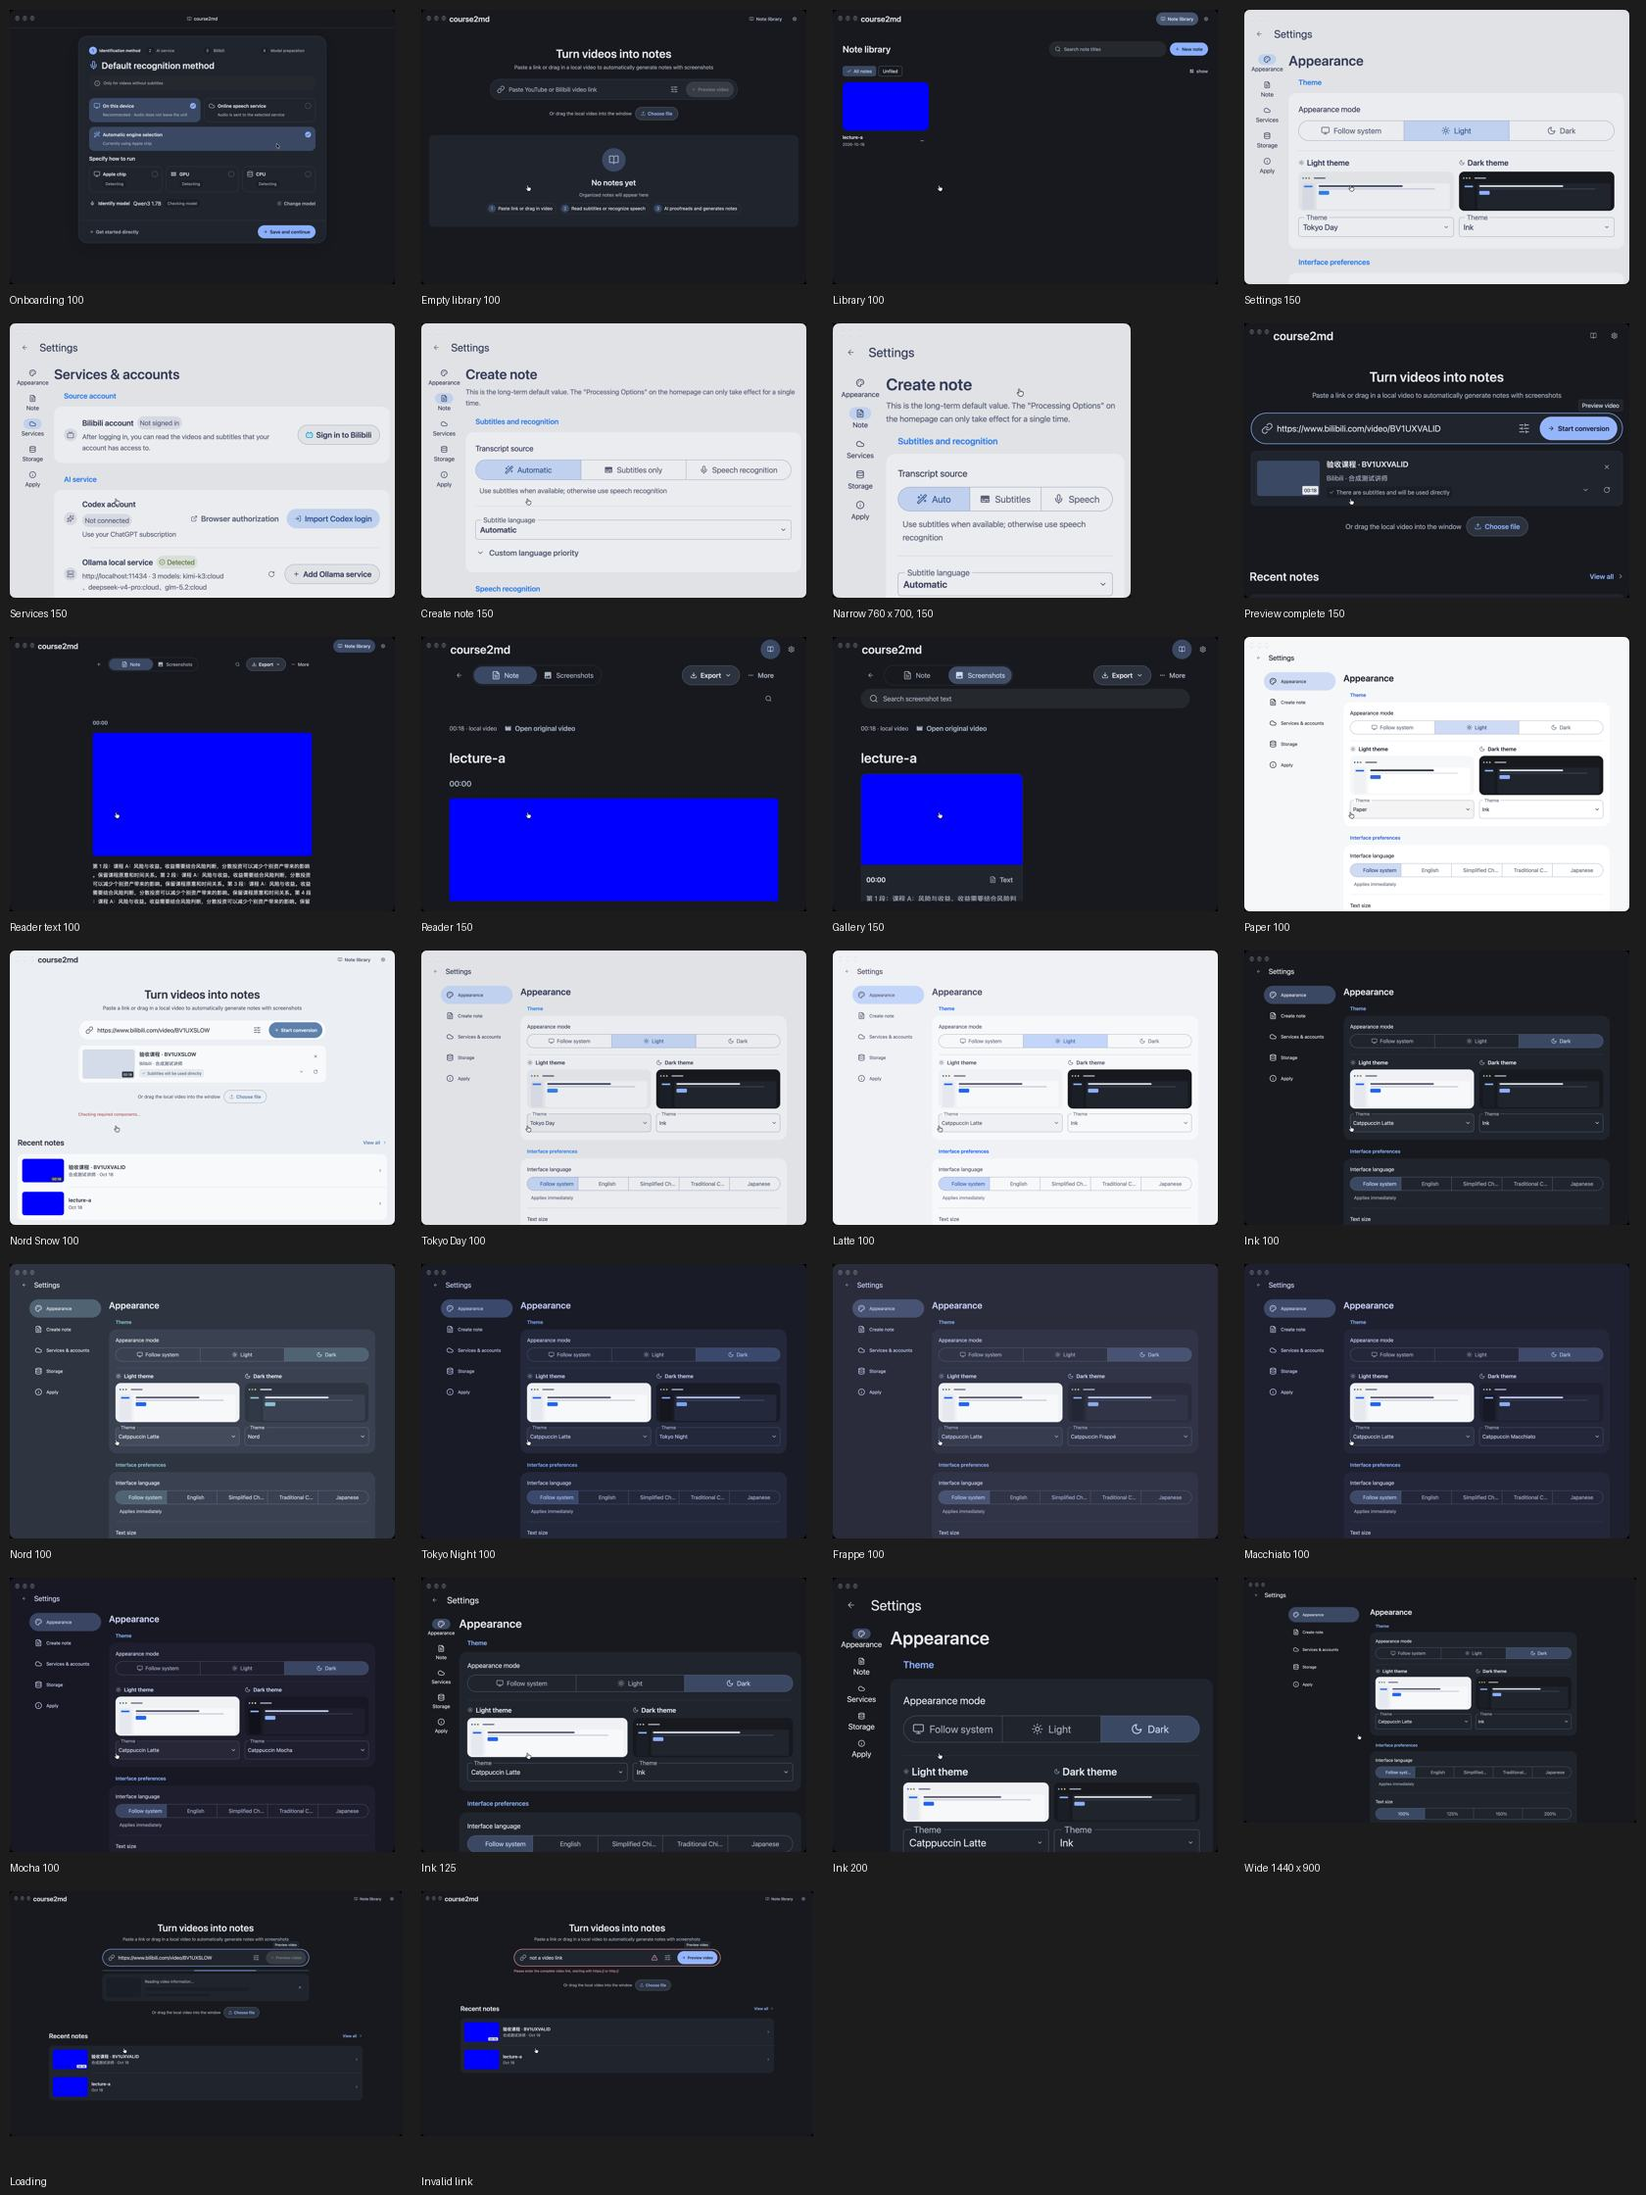
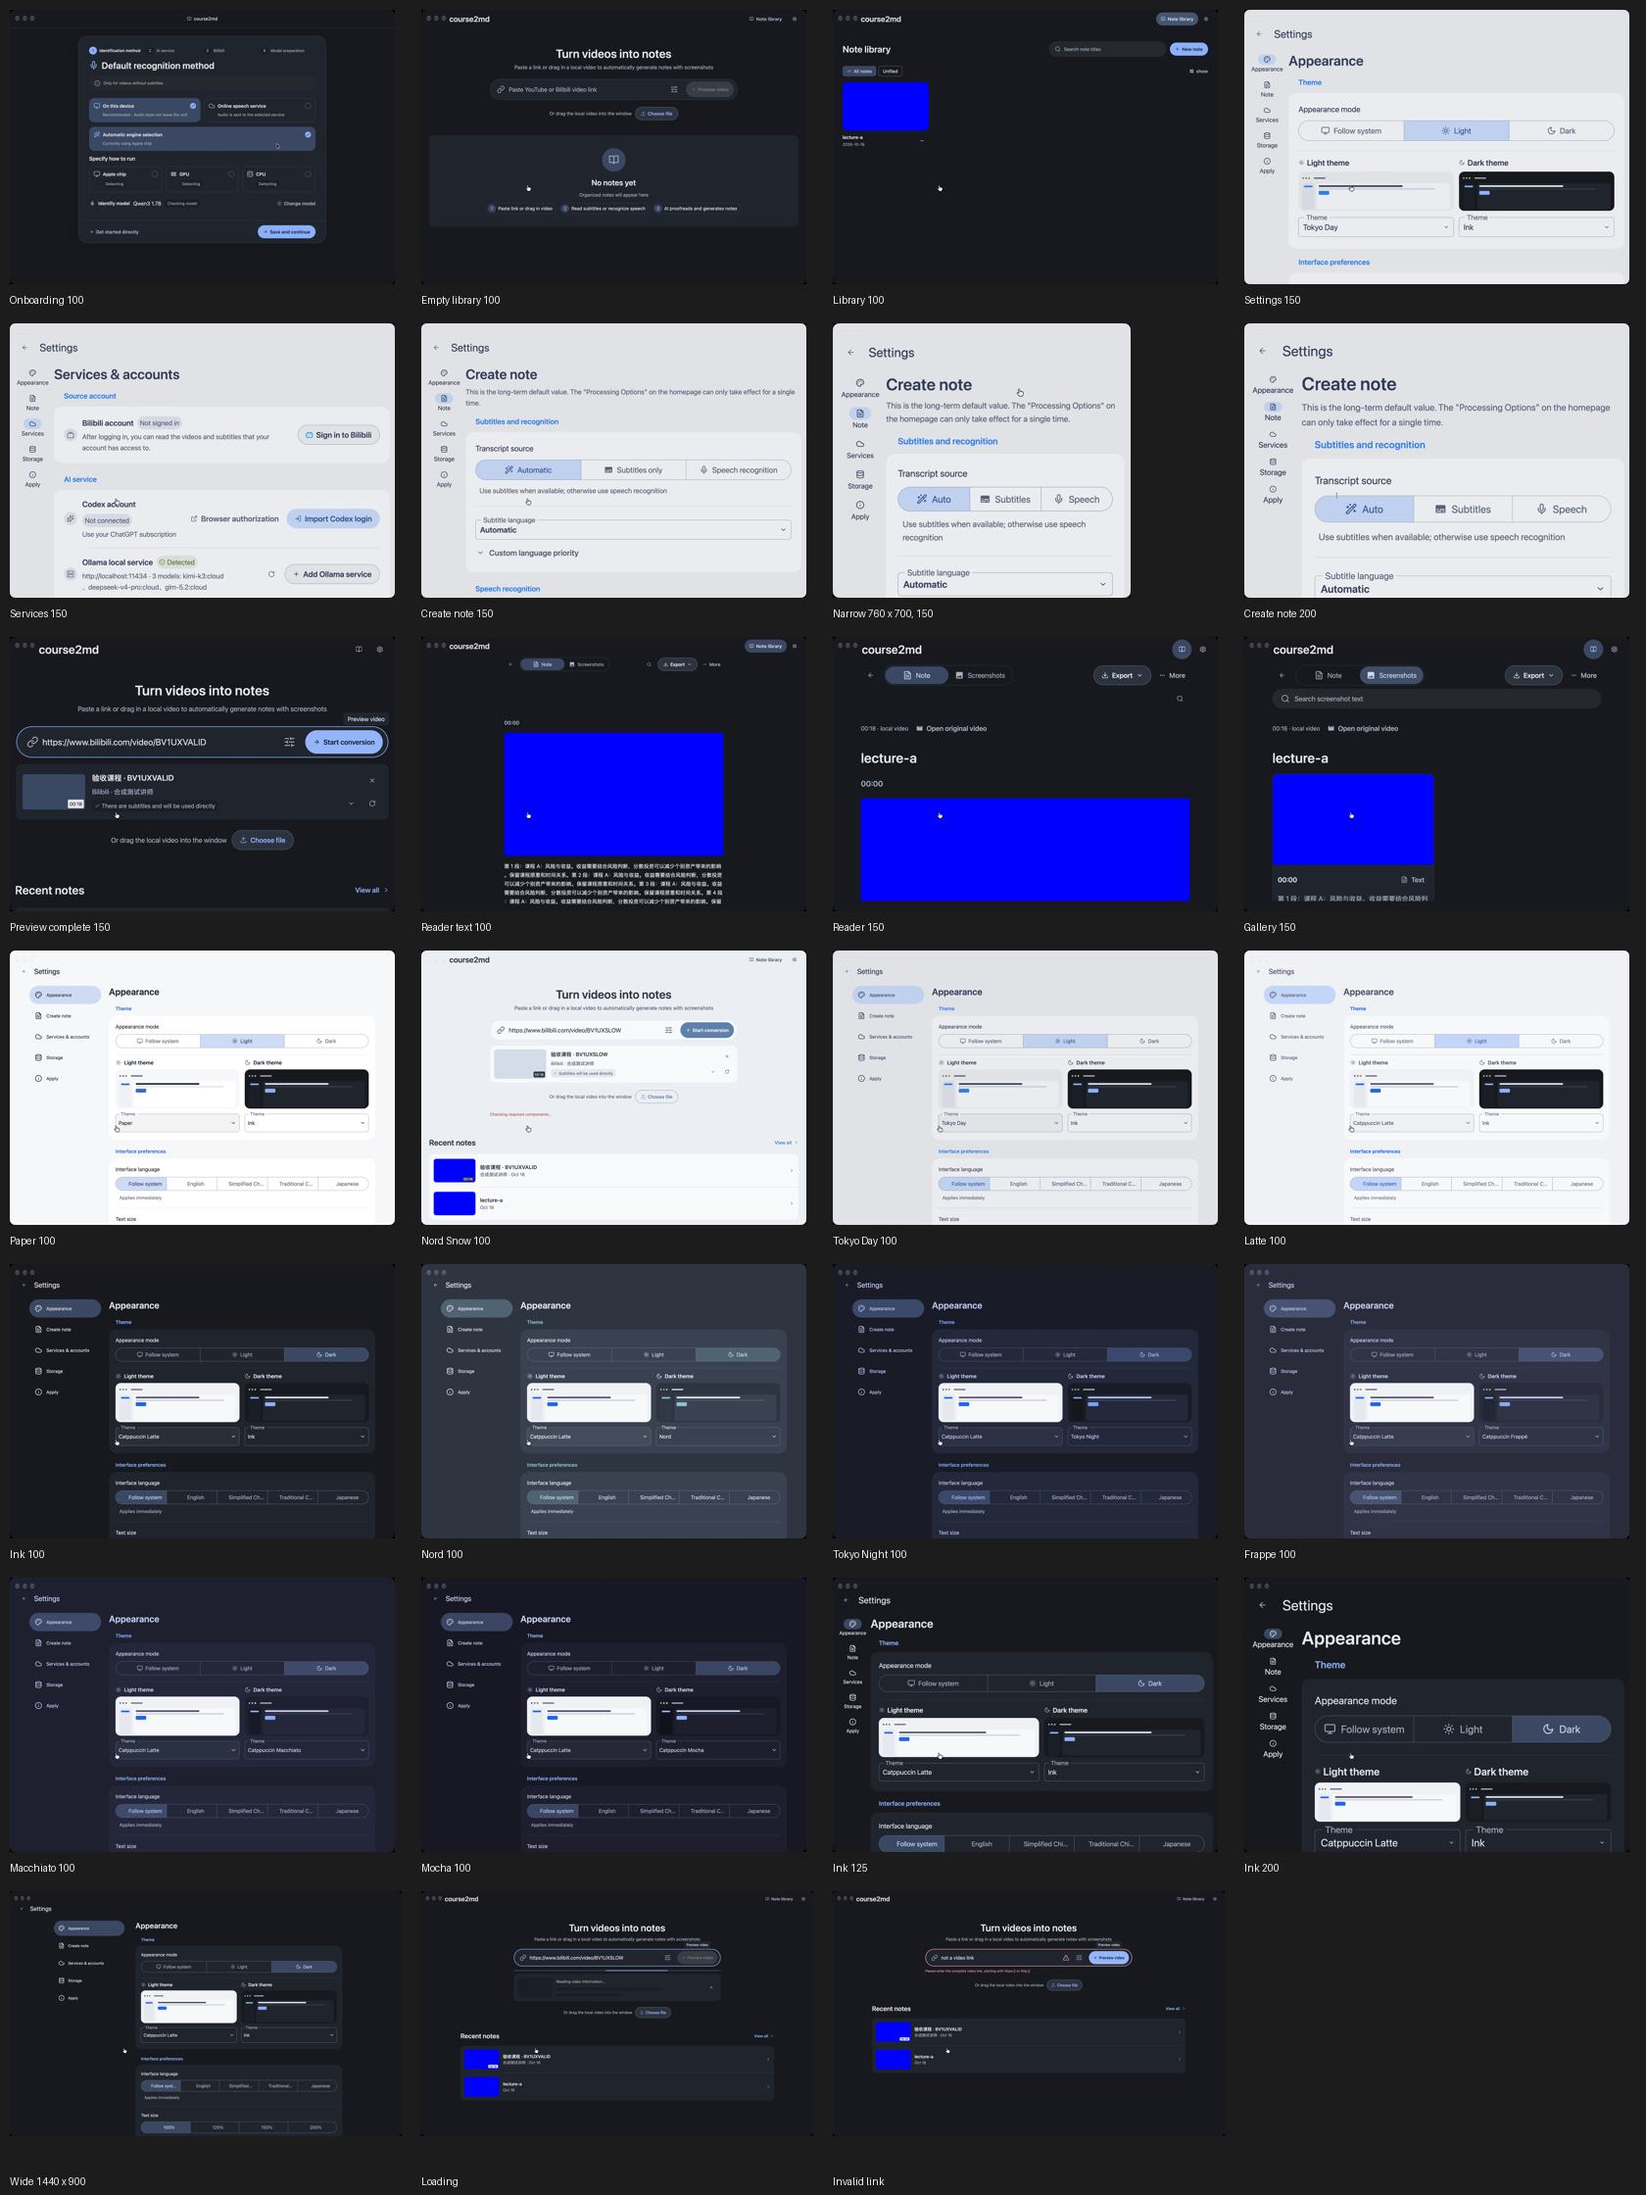
desktop: tighten compact labels and async save completion

diff --git a/desktop/src/generation_settings.rs b/desktop/src/generation_settings.rs
@@ -35,19 +35,21 @@ impl Desktop {
             [one] if SUBTITLE_LANGUAGES.iter().any(|(id, _)| id == one) => one.as_str(),
             _ => "",
         };
-        let source_labels = if f32::from(window.bounds().size.width) < 900.0 {
-            (
-                course2md::tr!("自动（紧凑）"),
-                course2md::tr!("仅字幕（紧凑）"),
-                course2md::tr!("语音识别（紧凑）"),
-            )
-        } else {
-            (
-                course2md::tr!("自动"),
-                course2md::tr!("仅字幕"),
-                course2md::tr!("语音识别"),
-            )
-        };
+        let source_labels =
+            if f32::from(window.bounds().size.width) / (f32::from(window.rem_size()) / 14.) < 700.0
+            {
+                (
+                    course2md::tr!("自动（紧凑）"),
+                    course2md::tr!("仅字幕（紧凑）"),
+                    course2md::tr!("语音识别（紧凑）"),
+                )
+            } else {
+                (
+                    course2md::tr!("自动"),
+                    course2md::tr!("仅字幕"),
+                    course2md::tr!("语音识别"),
+                )
+            };
         let custom_language = value.preferred_subtitle_languages.len() > 1
             || value
                 .preferred_subtitle_languages

diff --git a/desktop/src/preferences.rs b/desktop/src/preferences.rs
@@ -1016,6 +1016,9 @@ impl Store {
             if result.result.is_ok() {
                 if latest {
                     self.clear_intent(result.group);
+                    self.issues.retain(|issue| {
+                        issue.group != result.group || issue.kind != SettingsIssueKind::SaveFailed
+                    });
                 }
             } else if let Err(error) = &result.result {
                 self.issues.push(SettingsIssue {

diff --git a/docs/REVIEW.md b/docs/REVIEW.md
@@ -11,7 +11,7 @@
 在隔离的 `desktop/scripts/ux_fixture.py` 应用中逐项检查，正常操作均从重新启动后的状态开始：
 
 - 窗口：760×700、1180×840、1440×900。
-- 字号：100%、125%、150%、200%（`font_scale` 1.0/1.25/1.5/2.0）。
+- 字号：100%、125%、150%、200%（`font_scale` 1.0/1.25/1.5/2.0）；200% 的创建笔记页也单独检查，转录来源使用紧凑文案且不截断。
 - 配色：浅色 Paper、Nord Snow、Tokyo Day、Catppuccin Latte；深色 Ink、Nord、Tokyo Night、Catppuccin Frappe、Catppuccin Macchiato、Catppuccin Mocha。
 - 页面：首次设置入口与识别方式、主页、设置（外观、创建笔记、服务与账号）、笔记库、阅读页、截图画廊；证据图包含首次设置、空库、笔记库、150% 服务与创建笔记、760 窄窗。
 - 状态：空笔记库、链接读取中、无效链接提示、预览完成、转录完成、截图页与阅读页正常；加载态与失败态都从界面实际触发。证据图包含预览完成卡片与含正文的阅读页。
